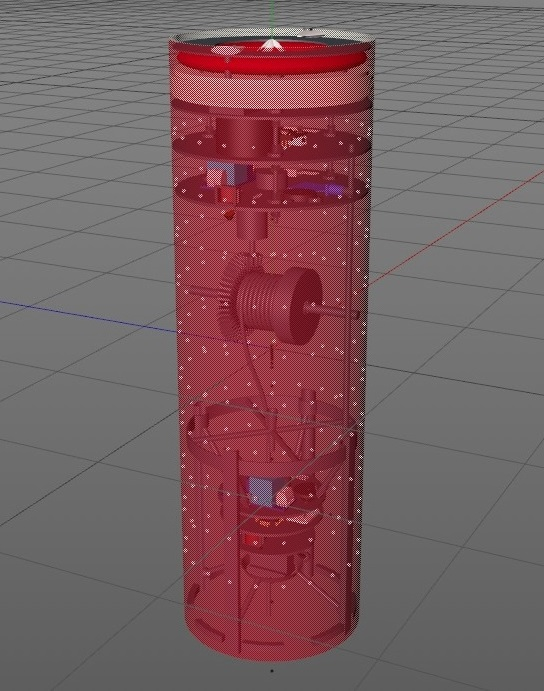
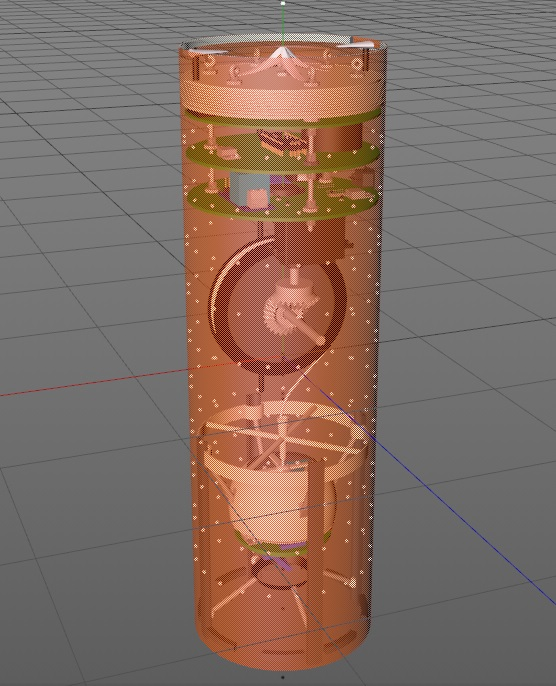
Cansat Pic Red to orange

diff --git a/GCS/MainWindow.xaml b/GCS/MainWindow.xaml
@@ -321,7 +321,7 @@
 
                                         <StackPanel Grid.Column="6" Grid.RowSpan="2" VerticalAlignment="Center">
                                             <!--Team logo-->
-                                            <Image Width="300" Height="100" Grid.Row="0" Grid.Column="1" Grid.RowSpan="2">
+                                            <Image Width="100" Height="100" Grid.Row="0" Grid.Column="1" Grid.RowSpan="2">
                                                 <Image.Source>
                                                     <BitmapImage DecodePixelWidth="300" UriSource="./Resources/logo.png" />
                                                 </Image.Source>
